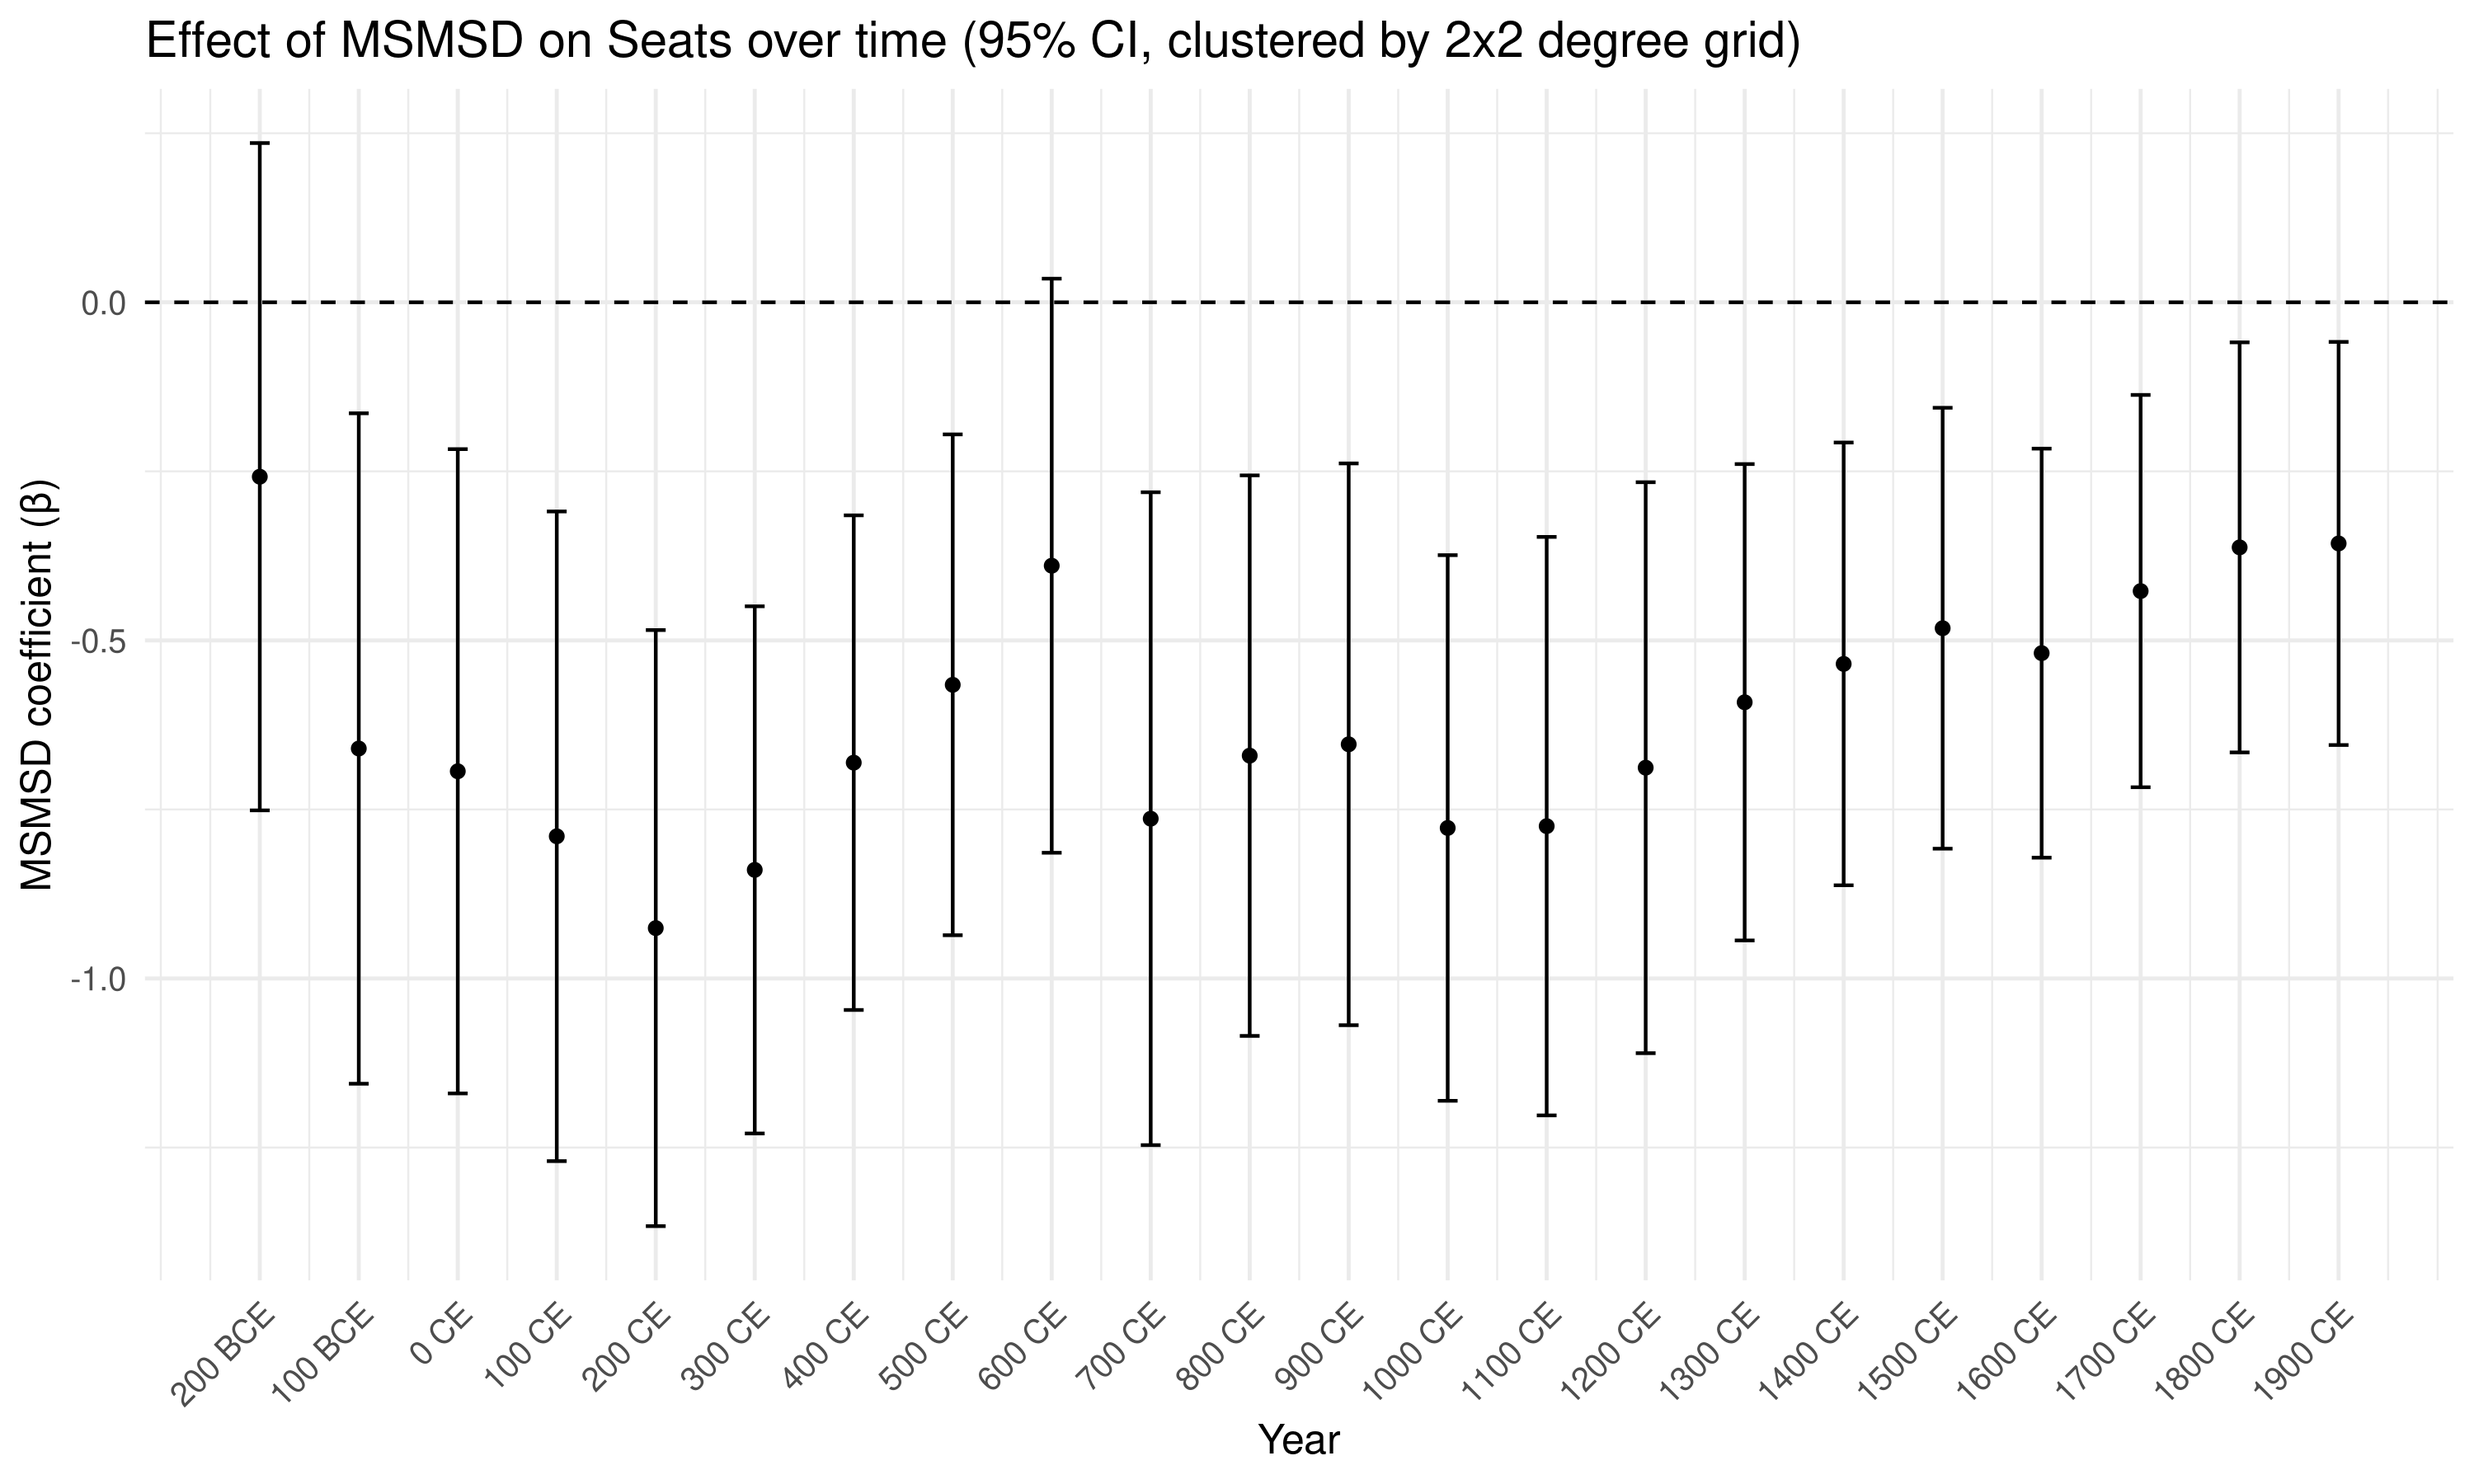
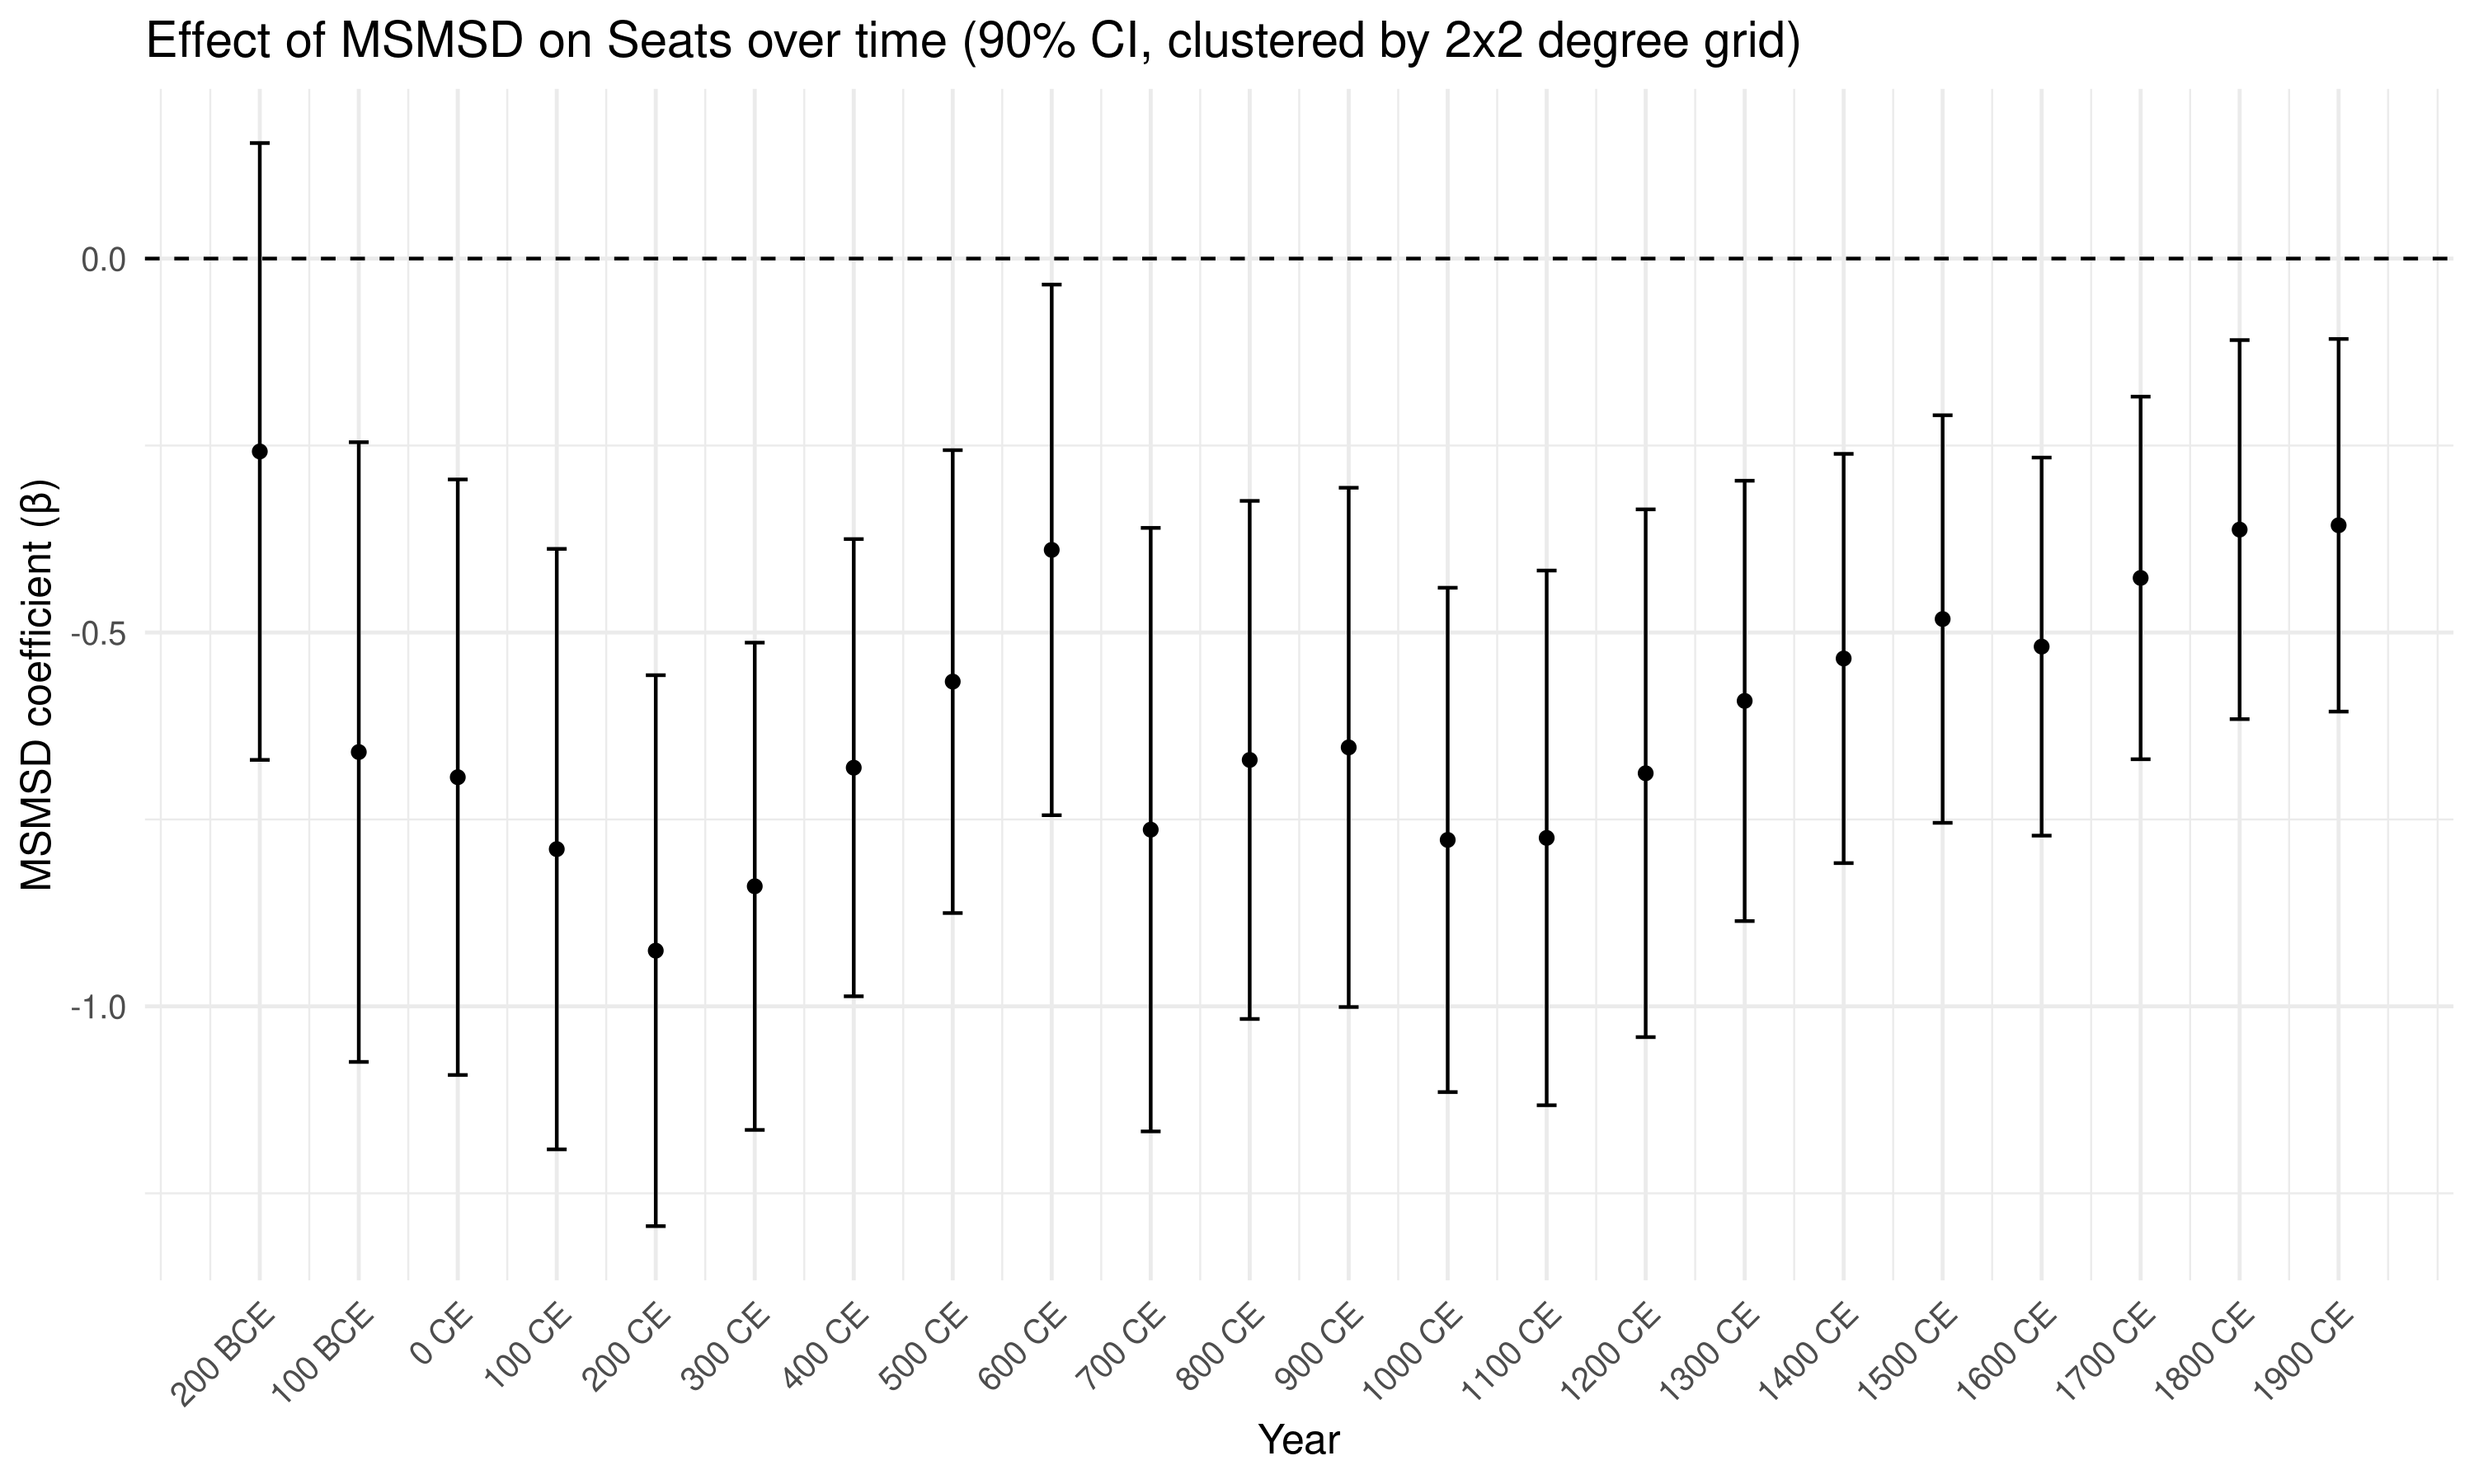
change plot CI to 90.

Changed region(s): [[0.031, 0.1556, 0.062, 0.2178], [0.031, 0.6533, 0.062, 0.6844], [0.031, 0.4044, 0.062, 0.4356]]

diff --git a/output/tables/author_table_c1_a.tex b/output/tables/author_table_c1_a.tex
@@ -3,27 +3,27 @@
 \toprule
 Year & MSMSD β & SE & 95\% CI Low & 95\% CI High & p-value\\
 \midrule
-200 BCE & -0.258 & 0.247 & -0.751 & 0.236 & 0.301\\
-100 BCE & -0.660 & 0.249 & -1.156 & -0.164 & 0.010\\
-0 CE & -0.694 & 0.239 & -1.170 & -0.217 & 0.005\\
-100 CE & -0.790 & 0.241 & -1.270 & -0.309 & 0.002\\
-200 CE & -0.925 & 0.221 & -1.366 & -0.485 & 0.000\\
-300 CE & -0.839 & 0.195 & -1.229 & -0.450 & 0.000\\
-400 CE & -0.681 & 0.183 & -1.047 & -0.315 & 0.000\\
-500 CE & -0.566 & 0.186 & -0.936 & -0.195 & 0.003\\
-600 CE & -0.390 & 0.213 & -0.814 & 0.035 & 0.072\\
-700 CE & -0.764 & 0.242 & -1.246 & -0.281 & 0.002\\
-800 CE & -0.670 & 0.208 & -1.085 & -0.256 & 0.002\\
-900 CE & -0.654 & 0.208 & -1.069 & -0.238 & 0.002\\
-1000 CE & -0.777 & 0.202 & -1.181 & -0.374 & 0.000\\
-1100 CE & -0.775 & 0.215 & -1.202 & -0.347 & 0.001\\
-1200 CE & -0.688 & 0.212 & -1.110 & -0.266 & 0.002\\
-1300 CE & -0.592 & 0.177 & -0.944 & -0.239 & 0.001\\
-1400 CE & -0.535 & 0.164 & -0.862 & -0.207 & 0.002\\
-1500 CE & -0.482 & 0.164 & -0.808 & -0.156 & 0.004\\
-1600 CE & -0.519 & 0.152 & -0.821 & -0.216 & 0.001\\
-1700 CE & -0.427 & 0.145 & -0.717 & -0.137 & 0.004\\
-1800 CE & -0.362 & 0.152 & -0.666 & -0.059 & 0.020\\
-1900 CE & -0.357 & 0.149 & -0.655 & -0.059 & 0.020\\
+200 BCE & -0.258 & 0.247 & -0.670 & 0.154 & 0.301\\
+100 BCE & -0.660 & 0.249 & -1.074 & -0.246 & 0.010\\
+0 CE & -0.694 & 0.239 & -1.092 & -0.295 & 0.005\\
+100 CE & -0.790 & 0.241 & -1.191 & -0.388 & 0.002\\
+200 CE & -0.925 & 0.221 & -1.294 & -0.557 & 0.000\\
+300 CE & -0.839 & 0.195 & -1.165 & -0.514 & 0.000\\
+400 CE & -0.681 & 0.183 & -0.987 & -0.375 & 0.000\\
+500 CE & -0.566 & 0.186 & -0.875 & -0.256 & 0.003\\
+600 CE & -0.390 & 0.213 & -0.744 & -0.035 & 0.072\\
+700 CE & -0.764 & 0.242 & -1.167 & -0.360 & 0.002\\
+800 CE & -0.670 & 0.208 & -1.017 & -0.324 & 0.002\\
+900 CE & -0.654 & 0.208 & -1.001 & -0.306 & 0.002\\
+1000 CE & -0.777 & 0.202 & -1.115 & -0.440 & 0.000\\
+1100 CE & -0.775 & 0.215 & -1.132 & -0.417 & 0.001\\
+1200 CE & -0.688 & 0.212 & -1.041 & -0.335 & 0.002\\
+1300 CE & -0.592 & 0.177 & -0.886 & -0.297 & 0.001\\
+1400 CE & -0.535 & 0.164 & -0.808 & -0.261 & 0.002\\
+1500 CE & -0.482 & 0.164 & -0.755 & -0.210 & 0.004\\
+1600 CE & -0.519 & 0.152 & -0.772 & -0.266 & 0.001\\
+1700 CE & -0.427 & 0.145 & -0.670 & -0.185 & 0.004\\
+1800 CE & -0.362 & 0.152 & -0.616 & -0.109 & 0.020\\
+1900 CE & -0.357 & 0.149 & -0.606 & -0.107 & 0.020\\
 \bottomrule
 \end{tabular}
